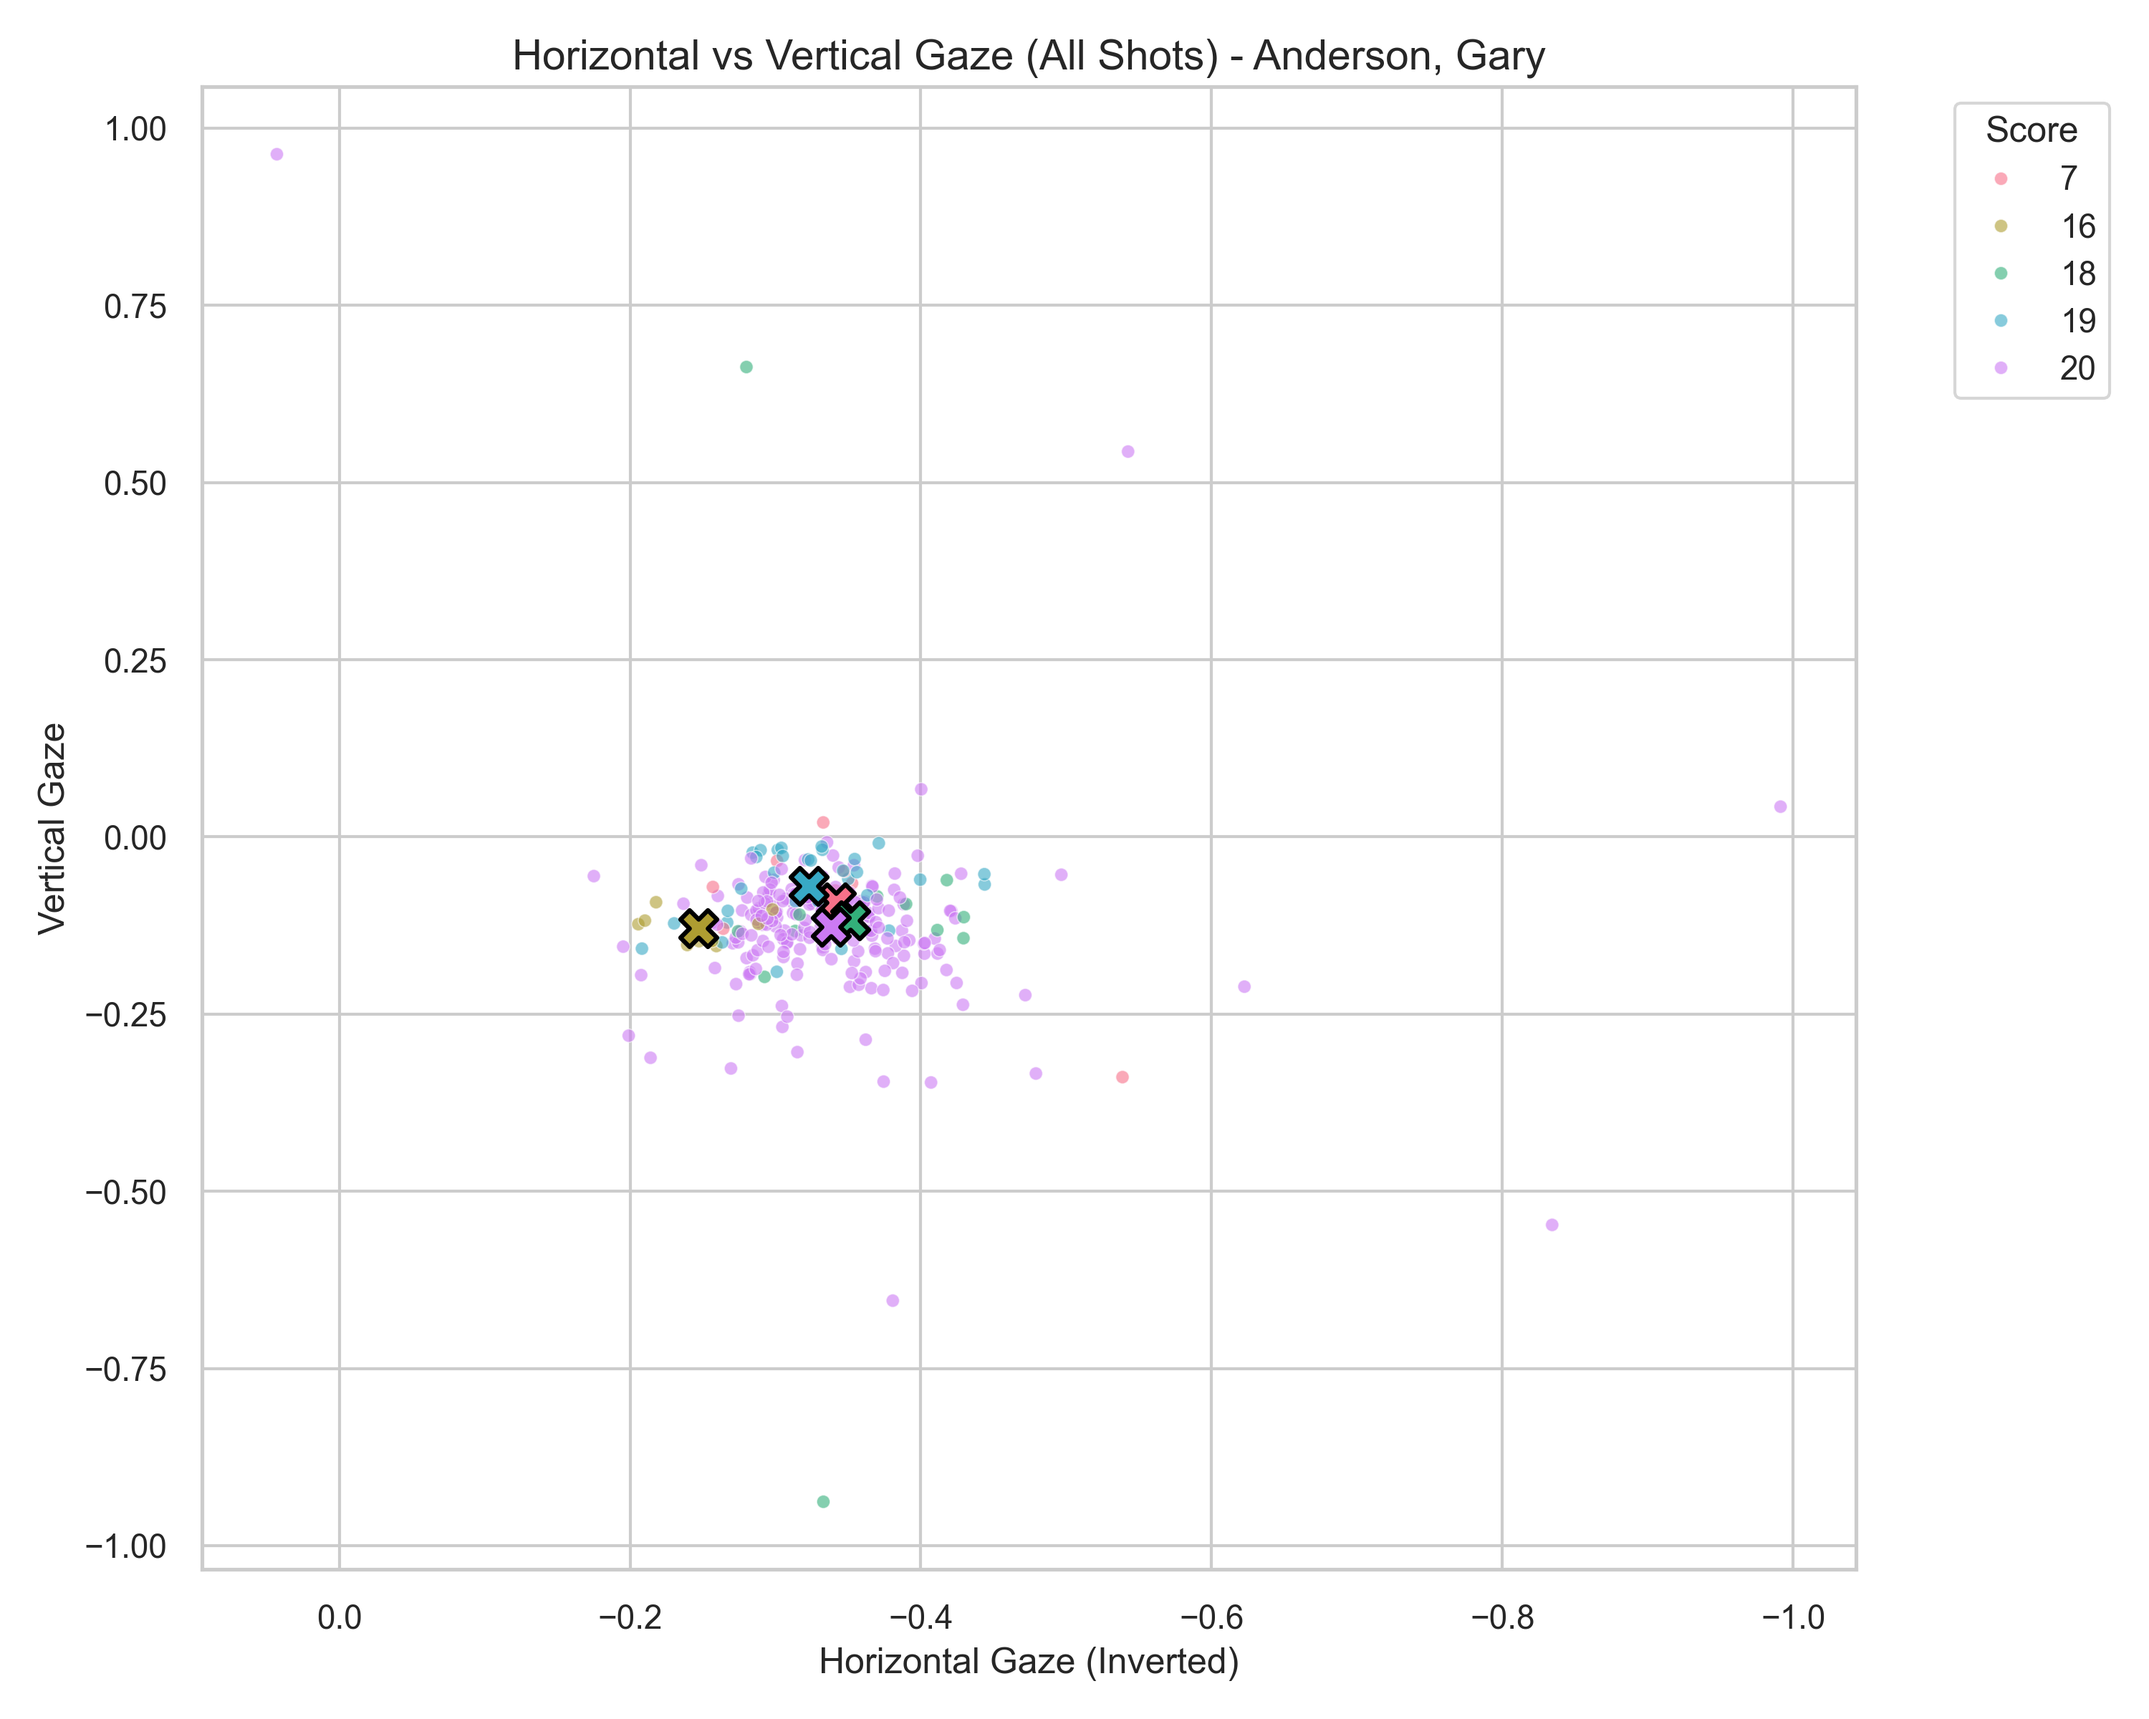
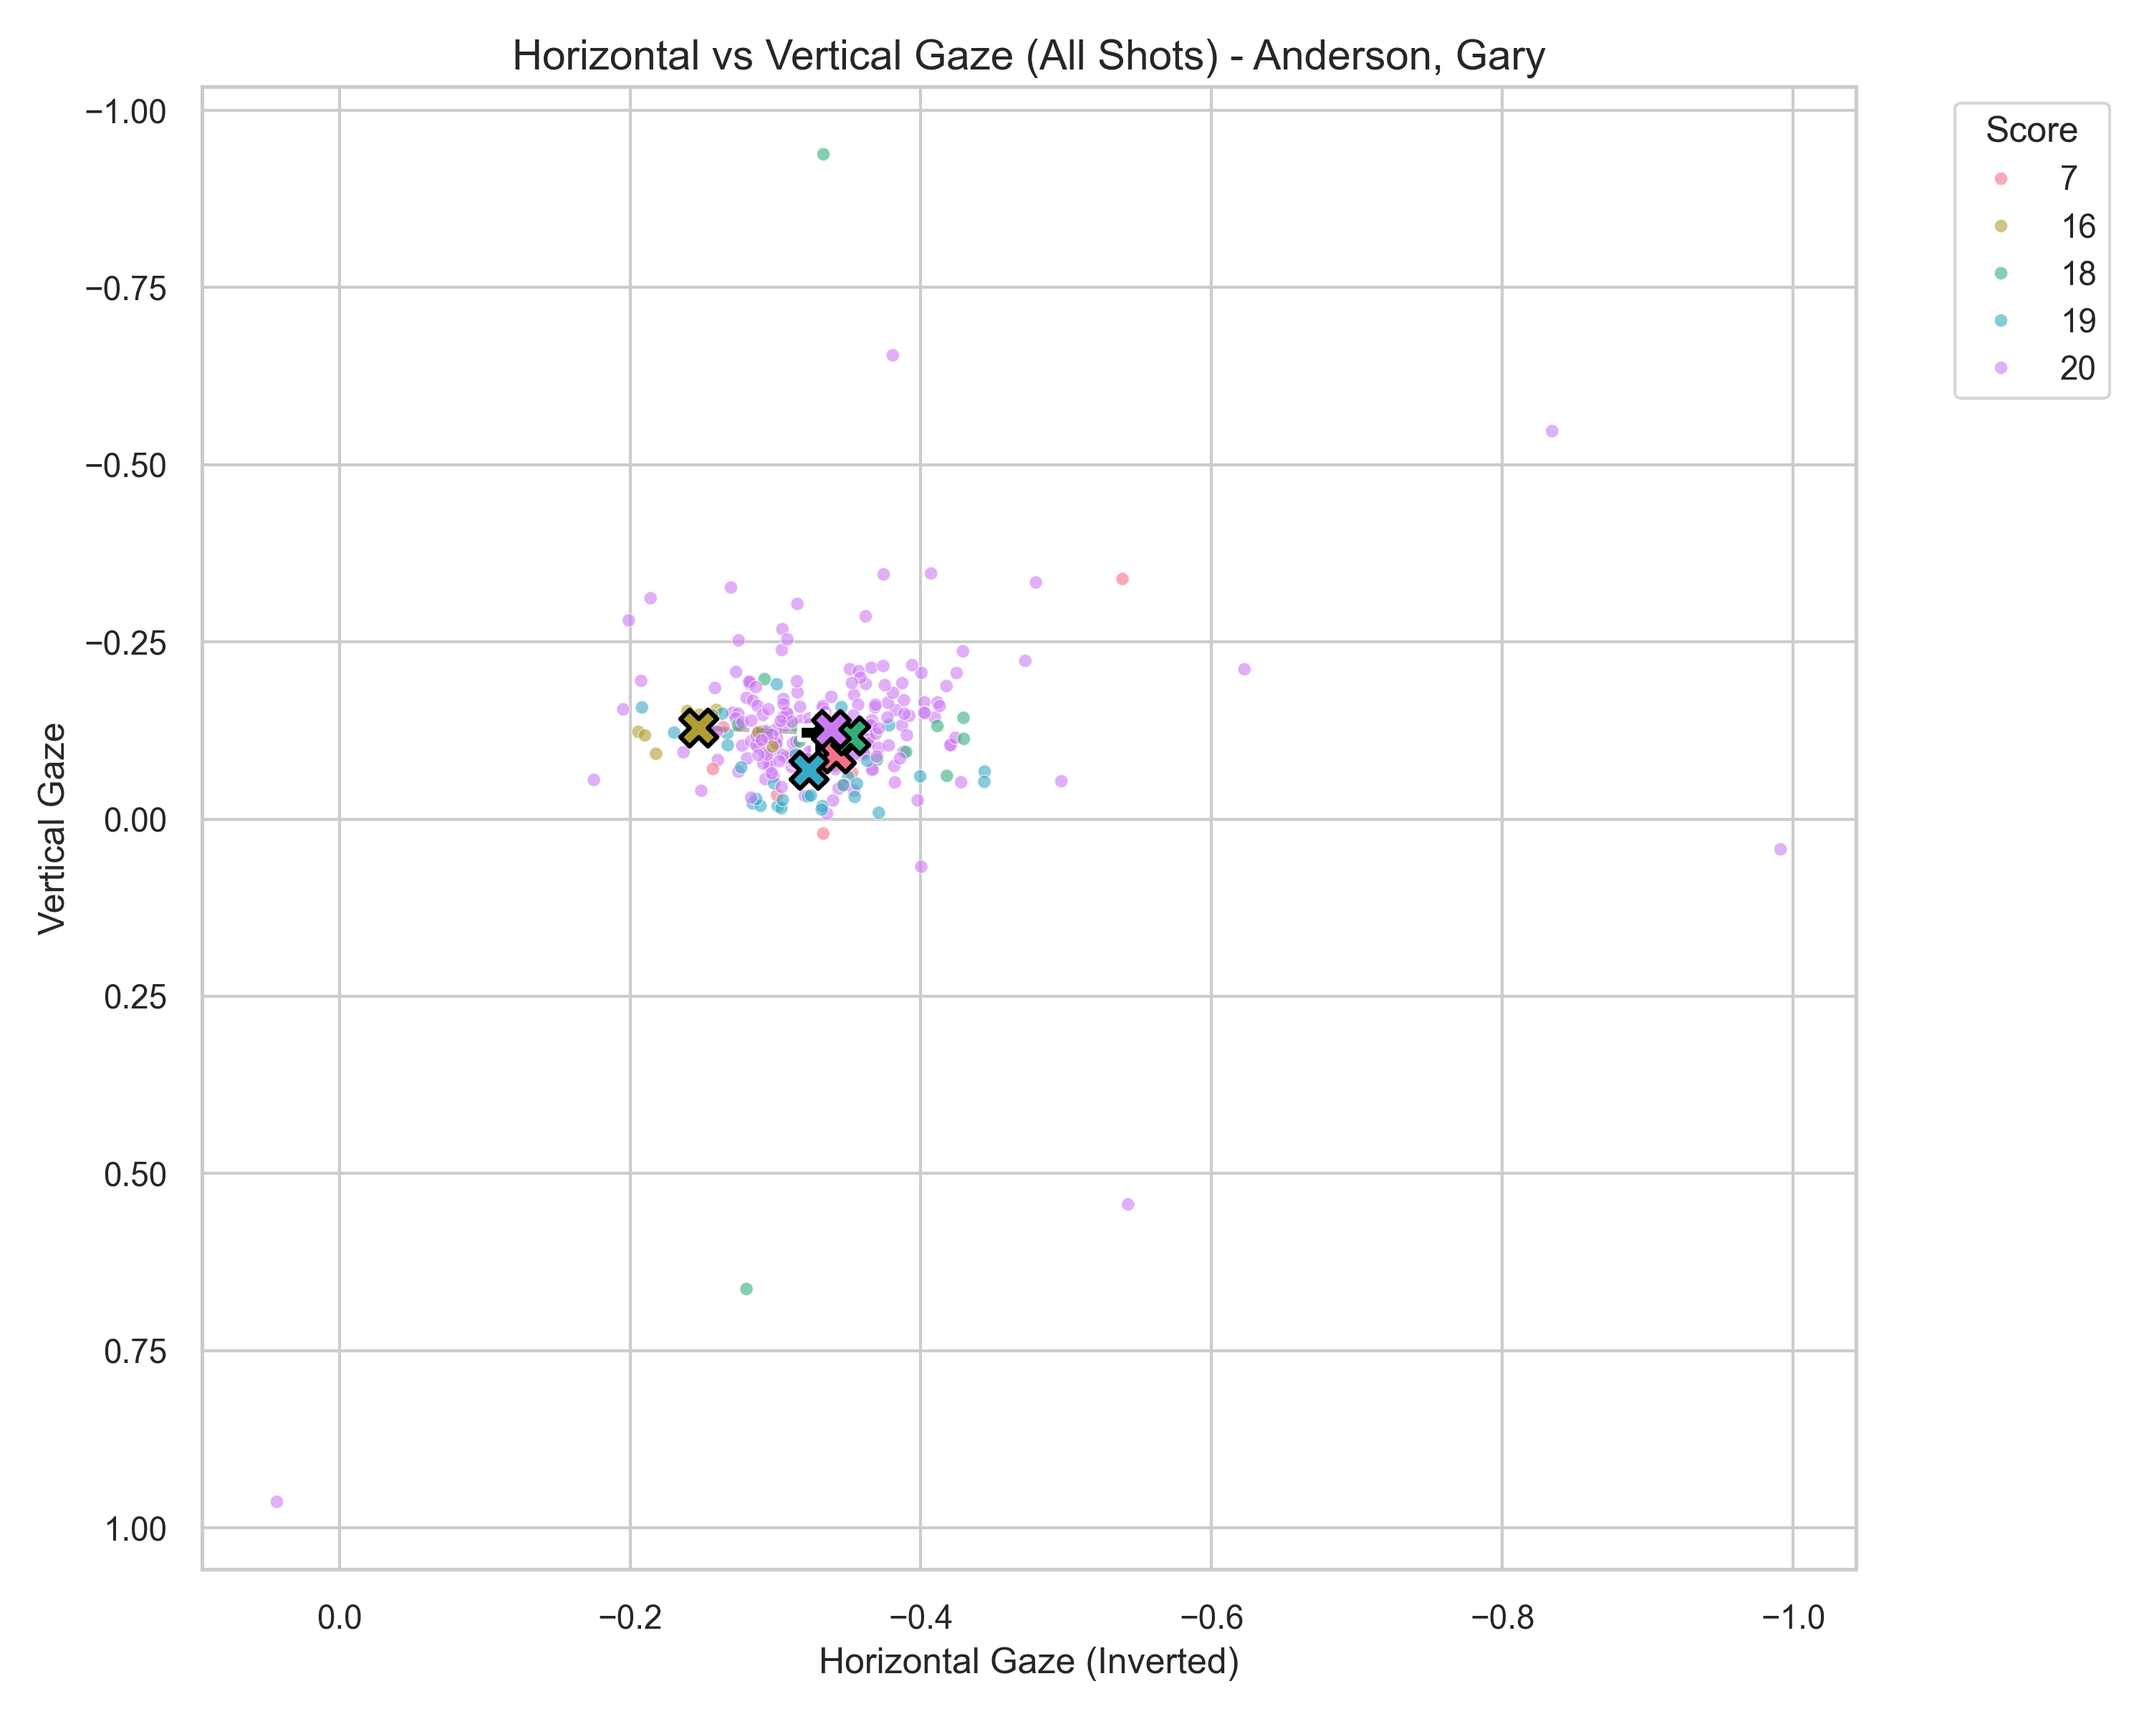
Add Plot 4 and fix formatting for academic paper

diff --git a/analysis/generate_plots.py b/analysis/generate_plots.py
@@ -56,13 +56,21 @@ def plot_1_all_shots_and_games(df):
         
         # Add area average point for each score
         score_means = plot_df.groupby('segment_number')[['average_gaze_x', 'average_gaze_y']].mean().reset_index()
+        
+        # Draw center point and lines
+        center_x = player_df['average_gaze_x'].mean()
+        center_y = player_df['average_gaze_y'].mean()
+        ax.scatter(center_x, center_y, marker='P', s=200, color='black', edgecolor='white', linewidth=1.5, label='_nolegend_', zorder=5)
+        
         for _, row in score_means.iterrows():
+            ax.plot([center_x, row['average_gaze_x']], [center_y, row['average_gaze_y']], color='gray', linestyle='--', alpha=0.5, zorder=1)
             ax.scatter(row['average_gaze_x'], row['average_gaze_y'], 
                        marker='X', s=150, edgecolor='black', linewidth=1.5,
                        color=score_colours[row['segment_number']], 
-                       label='_nolegend_') # Avoid duplicate legends
+                       label='_nolegend_', zorder=6) # Avoid duplicate legends
         
         ax.invert_xaxis() # Flip horizontal axis
+        ax.invert_yaxis() # Flip vertical axis
         ax.set_title(f"Horizontal vs Vertical Gaze (All Shots) - {player}")
         ax.set_xlabel("Horizontal Gaze (Inverted)")
         ax.set_ylabel("Vertical Gaze")
@@ -109,14 +117,21 @@ def plot_1_all_shots_and_games(df):
             
             # Area average points for game
             game_score_means = game_plot_df.groupby('segment_number')[['average_gaze_x', 'average_gaze_y']].mean().reset_index()
+            
+            center_x = game_df['average_gaze_x'].mean()
+            center_y = game_df['average_gaze_y'].mean()
+            ax.scatter(center_x, center_y, marker='P', s=200, color='black', edgecolor='white', linewidth=1.5, label='_nolegend_', zorder=5)
+            
             for _, row in game_score_means.iterrows():
                 if pd.notna(row['average_gaze_x']) and pd.notna(row['average_gaze_y']):
+                    ax.plot([center_x, row['average_gaze_x']], [center_y, row['average_gaze_y']], color='gray', linestyle='--', alpha=0.5, zorder=1)
                     ax.scatter(row['average_gaze_x'], row['average_gaze_y'], 
                                marker='X', s=150, edgecolor='black', linewidth=1.5,
                                color=game_score_colours[row['segment_number']],
-                               label='_nolegend_')
+                               label='_nolegend_', zorder=6)
             
             ax.invert_xaxis()
+            ax.invert_yaxis()
             ax.set_title(f"Horizontal vs Vertical Gaze (Game {game_id}) - {player}")
             ax.set_xlabel("Horizontal Gaze (Inverted)")
             ax.set_ylabel("Vertical Gaze")
@@ -159,6 +174,13 @@ def plot_2_average_per_score(df):
         # Drop nans
         score_means = score_means.dropna(subset=['average_gaze_x', 'average_gaze_y'])
         
+        center_x = player_df['average_gaze_x'].mean()
+        center_y = player_df['average_gaze_y'].mean()
+        ax.scatter(center_x, center_y, marker='P', s=200, color='black', edgecolor='white', linewidth=1.5, label='_nolegend_', zorder=5)
+        
+        for _, row in score_means.iterrows():
+            ax.plot([center_x, row['average_gaze_x']], [center_y, row['average_gaze_y']], color='gray', linestyle='--', alpha=0.5, zorder=1)
+        
         plt_sns.scatterplot(
             data=score_means, 
             x='average_gaze_x', 
@@ -170,10 +192,12 @@ def plot_2_average_per_score(df):
             edgecolor='black',
             linewidth=1.5,
             ax=ax,
-            legend='full'
+            legend='full',
+            zorder=6
         )
         
         ax.invert_xaxis()
+        ax.invert_yaxis()
         ax.set_title(f"Average Horizontal vs Vertical Gaze per Score (All Shots) - {player}")
         ax.set_xlabel("Horizontal Gaze (Inverted)")
         ax.set_ylabel("Vertical Gaze")
@@ -208,6 +232,13 @@ def plot_2_average_per_score(df):
             game_score_means = game_plot_df.groupby('segment_number', as_index=False)[['average_gaze_x', 'average_gaze_y']].mean()
             game_score_means = game_score_means.dropna(subset=['average_gaze_x', 'average_gaze_y'])
             
+            center_x = game_df['average_gaze_x'].mean()
+            center_y = game_df['average_gaze_y'].mean()
+            ax.scatter(center_x, center_y, marker='P', s=200, color='black', edgecolor='white', linewidth=1.5, label='_nolegend_', zorder=5)
+            
+            for _, row in game_score_means.iterrows():
+                ax.plot([center_x, row['average_gaze_x']], [center_y, row['average_gaze_y']], color='gray', linestyle='--', alpha=0.5, zorder=1)
+            
             plt_sns.scatterplot(
                 data=game_score_means, 
                 x='average_gaze_x', 
@@ -219,10 +250,12 @@ def plot_2_average_per_score(df):
                 edgecolor='black',
                 linewidth=1.5,
                 ax=ax,
-                legend='full'
+                legend='full',
+                zorder=6
             )
             
             ax.invert_xaxis()
+            ax.invert_yaxis()
             ax.set_title(f"Average Horizontal vs Vertical Gaze per Score (Game {game_id}) - {player}")
             ax.set_xlabel("Horizontal Gaze (Inverted)")
             ax.set_ylabel("Vertical Gaze")
@@ -267,10 +300,24 @@ def plot_3_specific_scores(df):
             s=250,
             edgecolor='black',
             linewidth=1.5,
-            alpha=0.8
+            alpha=0.8,
+            zorder=6
         )
         
+    # Draw center lines for each player's average points
+    for player in players:
+        player_df = df[df['player_name'] == player]
+        center_x = player_df['average_gaze_x'].mean()
+        center_y = player_df['average_gaze_y'].mean()
+        
+        ax.scatter(center_x, center_y, marker='P', s=200, color='black', edgecolor='white', linewidth=1.5, zorder=5)
+        
+        player_avg_df = avg_df[avg_df['player_name'] == player]
+        for _, row in player_avg_df.iterrows():
+            ax.plot([center_x, row['average_gaze_x']], [center_y, row['average_gaze_y']], color='gray', linestyle='--', alpha=0.5, zorder=1)
+        
     ax.invert_xaxis()
+    ax.invert_yaxis()
     ax.set_title("Average Gaze for Scores 17, 19, & 20 by Player")
     ax.set_xlabel("Horizontal Gaze (Inverted)")
     ax.set_ylabel("Vertical Gaze")
@@ -291,6 +338,113 @@ def plot_3_specific_scores(df):
     plt.tight_layout()
     plt.savefig(os.path.join(OUTPUT_DIR, "plot3_specific_scores_averages.png"), dpi=300)
     plt.close()
+
+def plot_4_top_5_scores_per_player(df):
+    """
+    Plot 4: Tidied up for an academic paper.
+    - No title
+    - 'Horizontal Gaze' without '(Inverted)'
+    - Legends aligned properly
+    - Centre marker defined in legend
+    - Colorblind friendly palette
+    """
+    os.makedirs(OUTPUT_DIR, exist_ok=True)
+    
+    # Increase font scales for academic readability
+    plt_sns.set_context("paper", font_scale=1.5)
+    plt_sns.set_style("ticks", {"axes.grid": True, "grid.linestyle": ":", "grid.alpha": 0.6})
+    
+    plt.figure(figsize=(10, 8))
+    ax = plt.gca()
+    
+    players = df['player_name'].unique()
+    # Academic-friendly distinct markers
+    markers = ['o', 's', '^', 'D', 'v', '<', '>', 'p', '*', 'h', 'H', 'X']
+    player_markers = dict(zip(players, markers[:len(players)]))
+    
+    all_top_scores = set()
+    player_top_scores = {}
+    
+    for player in players:
+        player_df = df[df['player_name'] == player]
+        if len(player_df) == 0:
+            continue
+        top_scores = player_df['segment_number'].value_counts().nlargest(5).index.tolist()
+        player_top_scores[player] = top_scores
+        all_top_scores.update(top_scores)
+        
+    all_top_scores = sorted(list(all_top_scores))
+    
+    # Use colorblind friendly palette or tab20 if too many
+    if len(all_top_scores) <= 10:
+        palette = plt_sns.color_palette("colorblind", len(all_top_scores))
+    else:
+        palette = plt_sns.color_palette("tab20", len(all_top_scores))
+        
+    score_colours = dict(zip(all_top_scores, palette))
+    
+    for player in players:
+        if player not in player_top_scores: 
+            continue
+            
+        player_df = df[df['player_name'] == player]
+        top_scores = player_top_scores[player]
+        
+        center_x = player_df['average_gaze_x'].mean()
+        center_y = player_df['average_gaze_y'].mean()
+        ax.scatter(center_x, center_y, marker='P', s=150, color='black', edgecolor='white', linewidth=1.5, zorder=5)
+        
+        plot_df = player_df[player_df['segment_number'].isin(top_scores)]
+        score_means = plot_df.groupby('segment_number', as_index=False)[['average_gaze_x', 'average_gaze_y']].mean()
+        score_means = score_means.dropna(subset=['average_gaze_x', 'average_gaze_y'])
+        
+        for _, row in score_means.iterrows():
+            # Thinner, dotted lines connection to reduce spaghetti effect
+            ax.plot([center_x, row['average_gaze_x']], [center_y, row['average_gaze_y']], color='gray', linestyle=':', alpha=0.7, zorder=1)
+            ax.scatter(
+                row['average_gaze_x'], 
+                row['average_gaze_y'],
+                color=score_colours[row['segment_number']],
+                marker=player_markers[player],
+                s=200,
+                edgecolor='black',
+                linewidth=1.2,
+                alpha=0.85,
+                zorder=6
+            )
+            
+    ax.invert_xaxis()
+    ax.invert_yaxis()
+    
+    # Academic axes formatting
+    ax.set_xlabel("Horizontal Gaze")
+    ax.set_ylabel("Vertical Gaze")
+    plt_sns.despine(ax=ax)
+    
+    # Custom legends configuration
+    import matplotlib.lines as mlines
+    from matplotlib.legend_handler import HandlerTuple
+    
+    score_handles = [mlines.Line2D([], [], color=score_colours[s], marker='o', linestyle='None',
+                                  markersize=8, label=str(s)) for s in all_top_scores]
+                                  
+    player_handles = [mlines.Line2D([], [], color='white', markerfacecolor='gray', markeredgecolor='black', marker=player_markers[p], linestyle='None',
+                                    markersize=8, label=p) for p in players if p in player_top_scores]
+                                    
+    # Add the player center point to the player legend
+    center_handle = mlines.Line2D([], [], color='white', markerfacecolor='black', markeredgecolor='white', marker='P', linestyle='None', markersize=10, label='Player Centre')
+    player_handles.append(center_handle)
+                                    
+    # Position legends neatly stacked in the top-right margin
+    legend1 = ax.legend(handles=score_handles, title="Target Score", bbox_to_anchor=(1.02, 1), loc='upper left', frameon=False)
+    ax.add_artist(legend1)
+    ax.legend(handles=player_handles, title="Player & Features", bbox_to_anchor=(1.02, 0.5), loc='upper left', frameon=False)
+    
+    # Save precisely with bbox_inches to capture right-hand legends without ridiculous whitespace
+    plt.tight_layout()
+    plt.savefig(os.path.join(OUTPUT_DIR, "plot4_top5_scores_combined.png"), dpi=300, bbox_inches='tight')
+    plt.close()
+
 
 def main():
     print("Loading data...")
@@ -320,6 +474,9 @@ def main():
     
     print("Generating Plot 3: Specific score averages (17, 19, 20)...")
     plot_3_specific_scores(df)
+    
+    print("Generating Plot 4: Top 5 scores per player combined...")
+    plot_4_top_5_scores_per_player(df)
     
     print("Plots generated successfully in the 'analysis' directory.")
 
